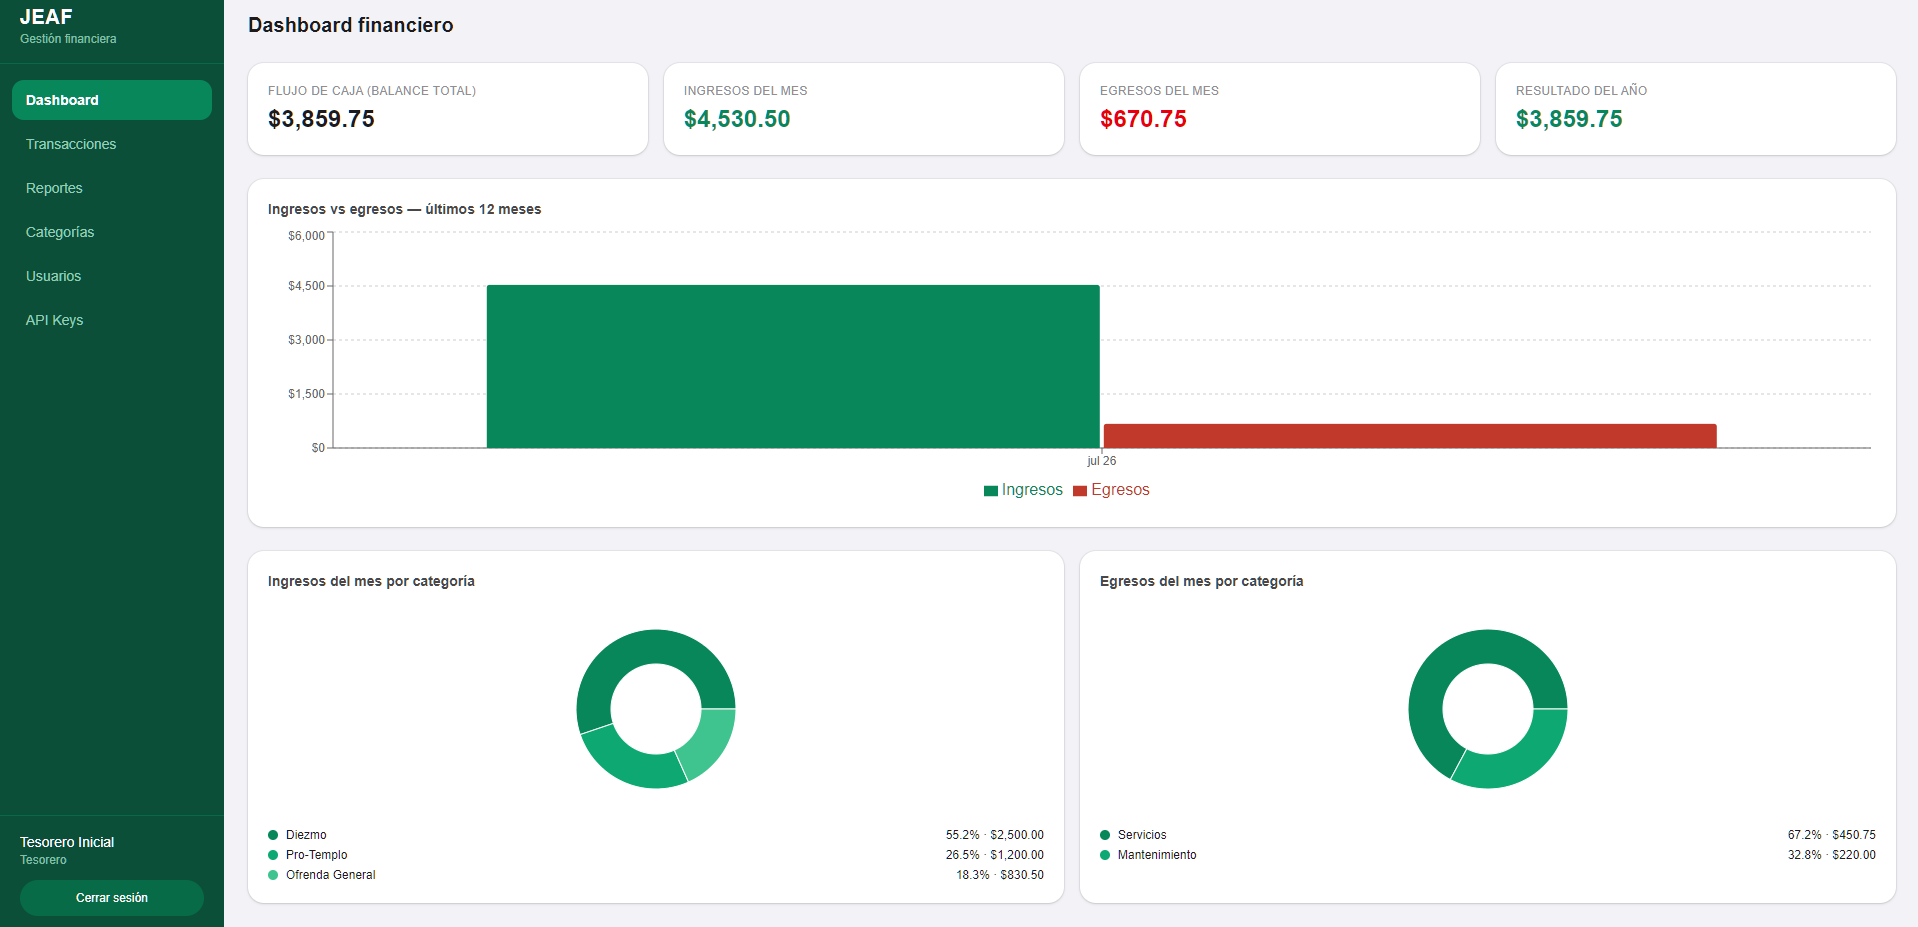
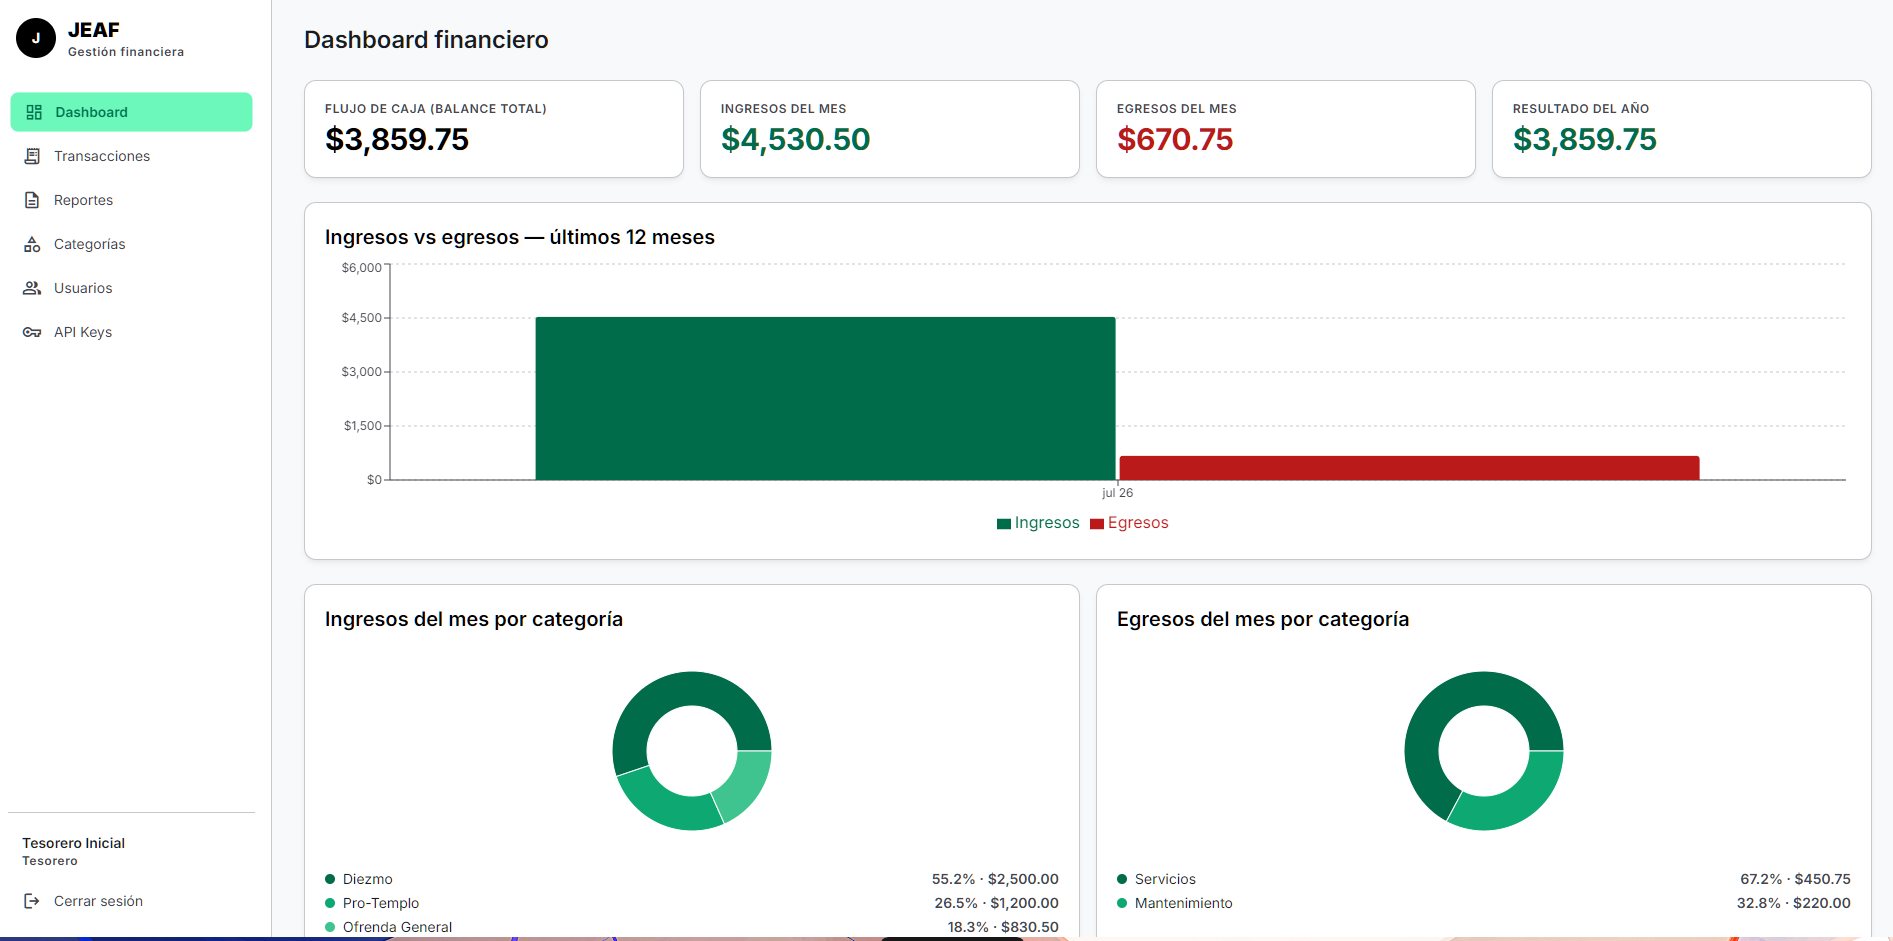
Readme actualizado

diff --git a/README.md b/README.md
@@ -8,12 +8,16 @@ Sistema transaccional interno single-tenant para automatizar el registro, contro
 |---|---|
 | ![Dashboard financiero del panel web JEAF](docs/screenshots/dashboard.png) | ![Configuración del Atajo de iOS para JEAF](docs/screenshots/atajo-ios.png) |
 
+| PWA — Aviso de instalación en iOS | PWA — Icono en la pantalla de inicio |
+|---|---|
+| ![Aviso "Instala JEAF en tu iPhone" en Safari](docs/screenshots/aviso-instalacion-ios.jpg) | ![Icono de JEAF instalado en la pantalla de inicio de iOS](docs/screenshots/icono-app.jpg) |
+
 ## Arquitectura
 
 | Capa | Tecnología |
 |------|-----------|
 | Captura móvil | Atajos de iOS (HTTP POST + API Key) |
-| Panel web | React + TypeScript + Vite + Tailwind CSS |
+| Panel web | React + TypeScript + Vite + Tailwind CSS (PWA instalable, enfocada en iOS) |
 | Backend | Node.js + Express.js (Clean Architecture) |
 | Base de datos | MySQL 8 (ACID, `DECIMAL(12,2)`, UUIDs, UTC) |
 | Auth | JWT (panel web) + API Keys hasheadas (Atajos iOS) |
@@ -61,6 +65,8 @@ npm run dev                # panel en http://localhost:5173
 ```
 
 Guía de captura móvil: [docs/Guia_Atajos_iOS.md](docs/Guia_Atajos_iOS.md).
+
+El panel es una **PWA instalable**: desde Safari en iPhone/iPad, tocar **Compartir → Agregar a inicio** la abre como una app (sin la barra de Safari, con su propio icono). El aviso con estos pasos aparece automáticamente en iOS mientras no esté instalada.
 
 ## Documentación
 